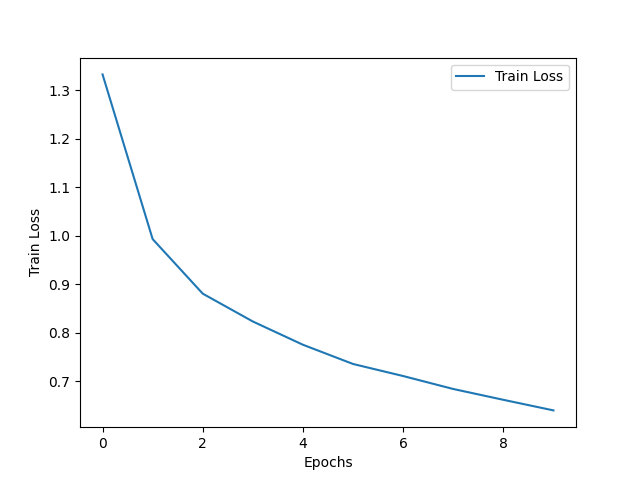
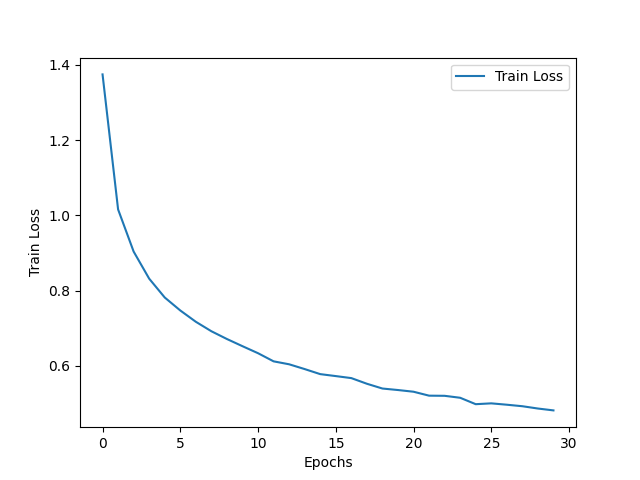
30 epochs

diff --git a/CIFAR10_CNN.py b/CIFAR10_CNN.py
@@ -12,7 +12,7 @@ import seaborn as sns
 device = ("cuda" if torch.cuda.is_available() else "mps" if torch.backends.mps.is_available() else "cpu")
 
 # Params
-num_epochs = 10
+num_epochs = 30
 batch_size = 100
 learning_rate = 0.001
 train_losses = np.zeros(num_epochs)
@@ -131,7 +131,7 @@ def test(model, criterion, test_loader, num_epochs):
             test_losses[epoch] = avg_test_loss
             test_accuracy = 100 * correct / len(test_loader.dataset)
 
-    print(f"Test Loss: {avg_test_loss:.5f}%")
+    print(f"Test Loss: {avg_test_loss:.5f}")
 
     print(f"Test Accuracy: {test_accuracy:.3f}%")
 
